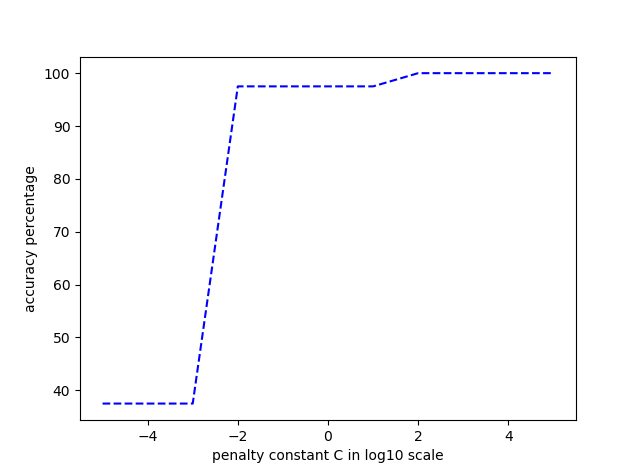
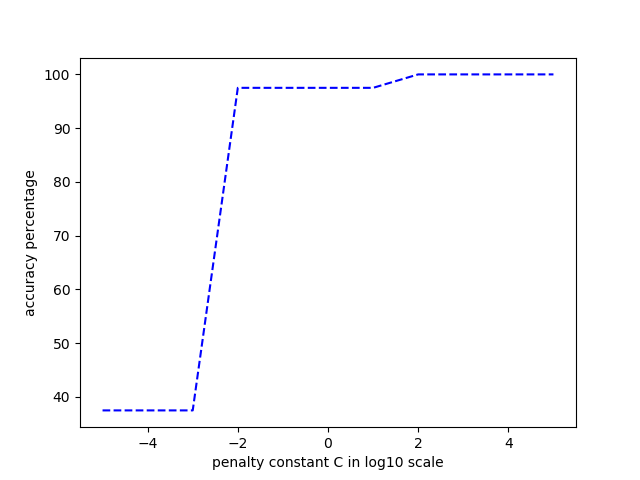
update

diff --git a/ex4/skeleton_svm.py b/ex4/skeleton_svm.py
@@ -95,6 +95,7 @@ def linear_accuracy_per_C(X_train, y_train, X_val, y_val):
 	plt.plot(np.log10(C_vals), res, 'b--')
 	plt.xlabel('penalty constant C in log10 scale')
 	plt.ylabel('accuracy percentage')
+	plt.savefig('penalty_constant')
 	plt.show()
 	return res
 
@@ -104,8 +105,8 @@ def rbf_accuracy_per_gamma(X_train, y_train, X_val, y_val):
 			An array that contains the accuracy of the resulting model on the VALIDATION set.
 	"""
 	C = 10
-	# gamma_vals = gamma_log_grid_search(np.power(10, -6))
-	gamma_vals = gamma_uniform_grid_search(0.2, 0.3, 11)
+	gamma_vals = gamma_log_grid_search()
+	# gamma_vals = gamma_uniform_grid_search(0.2, 0.3, 11)
 	res = np.zeros((len(gamma_vals)))
 
 	for i in range(len(gamma_vals)):
@@ -116,14 +117,17 @@ def rbf_accuracy_per_gamma(X_train, y_train, X_val, y_val):
 		y_pred = clf.predict(X_val)
 		res[i] = 100 * (1 - np.sum([y_pred[i] ^ y_val[i] for i in range(len(y_val))]) / len(y_val))
 
-	# plt.plot(np.log10(gamma_vals), res, 'r--')
-	plt.plot(gamma_vals, res, 'r--')
-	plt.xlabel('gamma')
+	plt.plot(np.log10(gamma_vals), res, 'r--')
+	xlabel = 'log10 gamma'
+	# xlabel ='gamma'
+	# plt.plot(gamma_vals, res, 'r--')
+	plt.xlabel(xlabel)
 	plt.ylabel('accuracy percentage')
+	plt.savefig('gamma_acc')
 	plt.show()
 	return res
 
-def gamma_log_grid_search(gamma, n_points=11):
+def gamma_log_grid_search(gamma=1e-6, n_points=11):
 	gamma_vals = []
 	for i in range(n_points):
 		gamma *= 10
